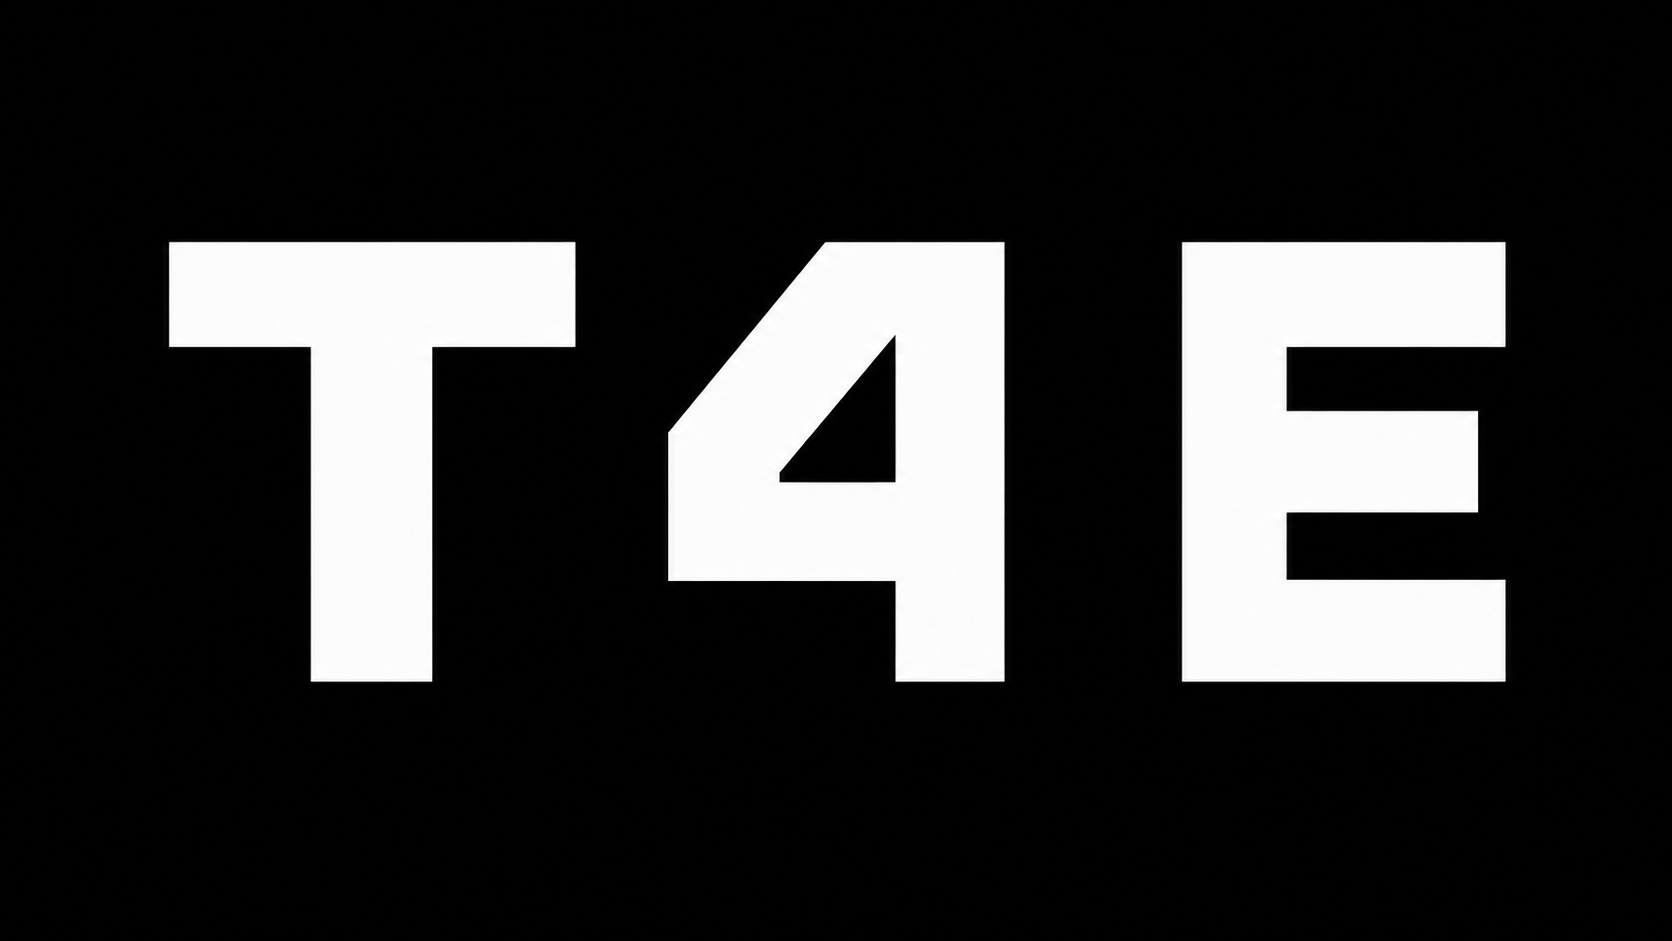
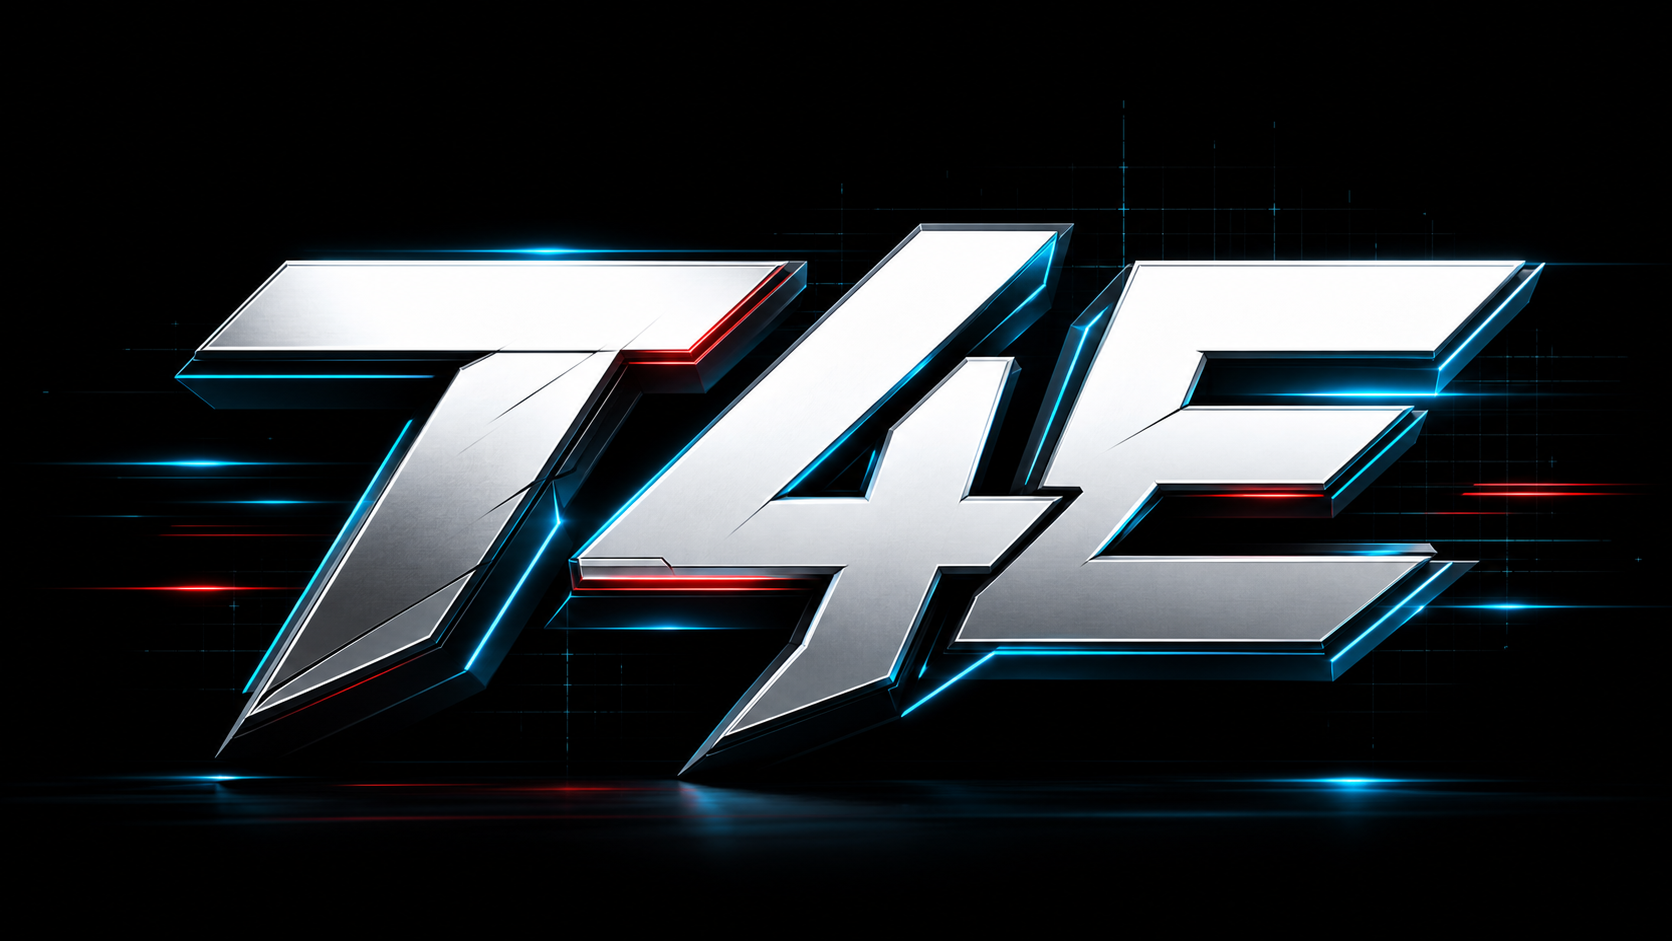
feat(branding): upgrade T4E campaign wordmark

diff --git a/README.md b/README.md
@@ -4,22 +4,28 @@
 +------------------------------------------------------------------------------+
 | T4E // TERMINAL APPLICATION ENVIRONMENT [ CODEX -> ASCII ]                   |
 +------------------------------------------------------------------------------+
-|    #####################            ###########         ##################   |
-|    #####################           ############         ##################   |
-|    #####################          #############         ##################   |
-|    #####################         ##############         #################    |
-|           #######              ######### ######         ######               |
-|           #######             ########   ######         ######               |
-|           #######            ########    ######         ################     |
-|           #######            #######     ######         ################     |
-|           #######            ##################         ################     |
-|           #######            ##################         ################     |
-|           #######            ##################         ######               |
-|           #######            ##################         ######               |
-|           #######                        ######         ##################   |
-|           #######                        ######         ##################   |
-|           #######                        ######         ##################   |
-|           #######                        ######         #################    |
+|                                                                              |
+|                                                                              |
+|                                           ++++++-                            |
+|            ---------==+*+==--::::::     -@@@@@@#-    ::::::-----------=.     |
+|          .%@@@@@@@@@@@@@@@@@@@@@@@:    #@@@@@@.     #@@@@@@@@@@@@@@@@@*:     |
+|         =@@@@@@@@@@@@@@@@@@@@@@@+    -@@@@@@+      -@@@@@@@@@@@@@@@@@-       |
+|        -==+**######*#@@@@@@%#%%-    #@@@@@@       .%@@@@%##########*:        |
+|                    -%@@@@@*       :@@@@@@*  %@=   =@@@@#            .        |
+|                   -@@@@@@#       *@@@@@@. +@@@   .@@@@@= ...:-==++:.         |
+|                  :@@@@@@%      .@@@@@@*  %@@@+   *@@@@@@@@@@@@@@%-           |
+|                 :%%%%@@%      *@@@@@@:  #@@@@   -@@@@@@@@@@@@@@+             |
+|                -***##%#     :%@@@@@*   :@@@@*   ==%@@#---=====.              |
+|               -+==++**  .  +@%%%%%%#%%%@@@@@%%@#.=%@*                        |
+|              :=:--==+  :  #%#%%%%%%@@@%%%%%@@@+:+%#=              .          |
+|             .=..:::-     -====++++=-::#####::::+*++=+++++*******#*:.         |
+|             -   ..-                  :****-  :========++++++++**- .          |
+|            -.  .--.                 .+==+=  :-----------======-              |
+|           -. :::.   .              .=--=+    ..                              |
+|          :-:.                     -=---..                                    |
+|          :                       =-.                                         |
+|                                 .                                            |
+|                                                                              |
 +------------------------------------------------------------------------------+
 | ONE TERMINAL. EVERY TOOL. AI AT THE CONTROLS.                                |
 +------------------------------------------------------------------------------+
@@ -249,12 +255,14 @@ Regenerate the 74-column result with:
 ```bash
 scripts/image-to-ascii.sh \
   assets/branding/t4e-ascii-source.png \
-  74 18 80 '1400:500:(iw-1400)/2:(ih-500)/2' \
+  74 22 80 '1500:620:(iw-1500)/2:(ih-620)/2' \
+  ' .:-=+*#%@' 1.5 -0.04 \
   > assets/branding/t4e-ascii.txt
 ```
 
 The converter requires `ffmpeg`, `od`, and `awk`. Width, height, brightness
-threshold, and an optional FFmpeg crop expression are positional arguments.
+threshold, an optional FFmpeg crop expression, character ramp, contrast, and
+brightness are positional arguments.
 
 ## Versioning
 

diff --git a/CHANGELOG.md b/CHANGELOG.md
@@ -76,6 +76,8 @@ and date are assigned.
   instead of exposing the fallback duration as a routine user preference.
 - Replace the hand-authored README wordmark with the mechanically converted
   Codex-generated branding asset.
+- Upgrade the generated wordmark source to commercial campaign typography and
+  preserve its lighting and extrusion with a multi-level ASCII character ramp.
 - Spell out horizontal panel switching and vertical row movement in HOME
   keyboard hints instead of using the ambiguous generic `arrows` label.
 - Prevent drag selection from combining aligned borders of adjacent panels
